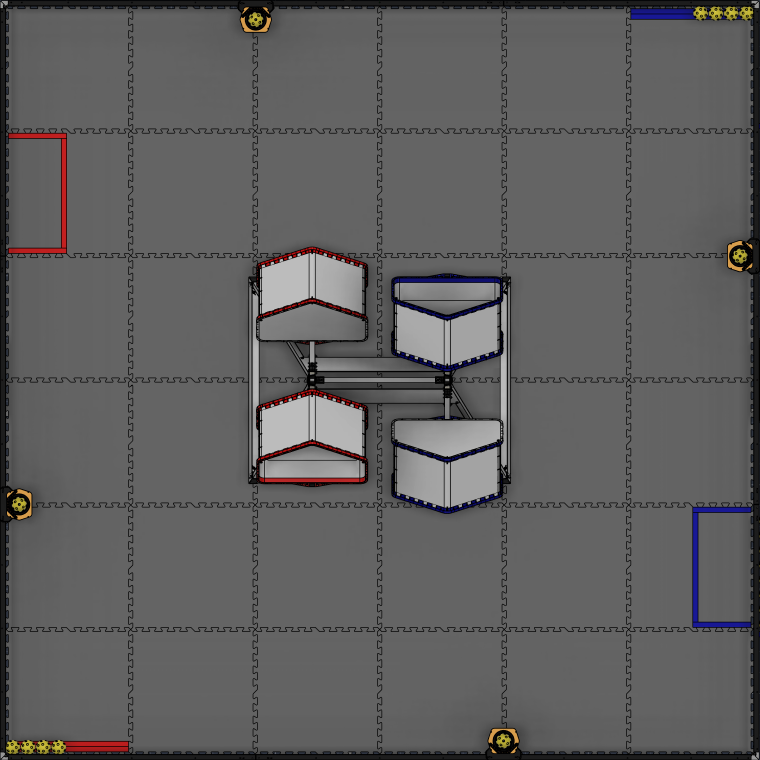
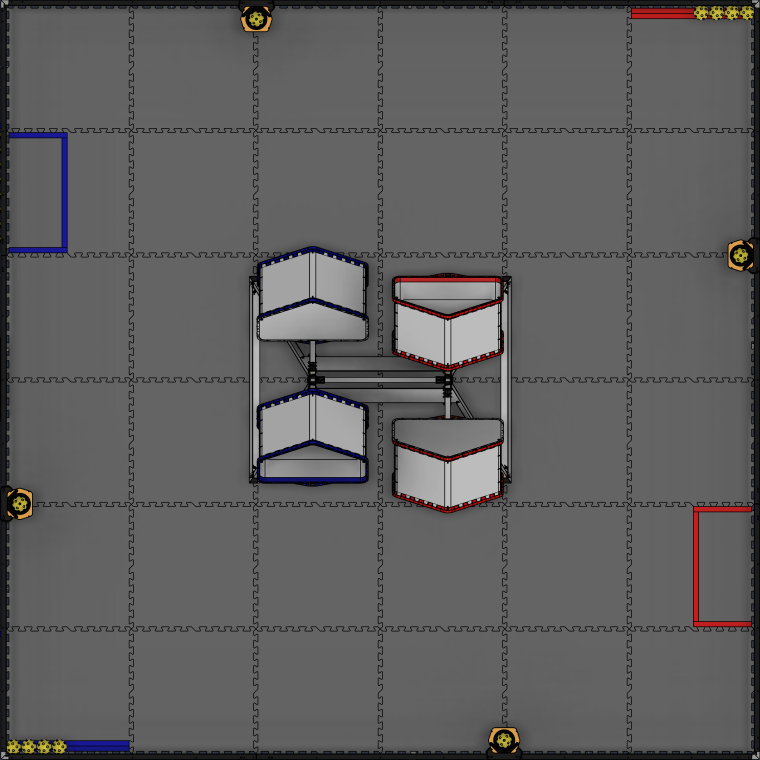
the latest

diff --git a/TeamCode/src/main/java/org/firstinspires/ftc/teamcode/systems/Odometry.java b/TeamCode/src/main/java/org/firstinspires/ftc/teamcode/systems/Odometry.java
@@ -31,9 +31,6 @@ public class Odometry {
             public static double perpOffset = -146.05; // offset of perp pod from center
         }
     }
-
-    Pose2D position;
-
     private double lastL, lastR, lastP;
     public Odometry(Robot robot) {
         // Define the deadwheels
@@ -44,11 +41,9 @@ public class Odometry {
         lastL = (Constants.Directions.leftDeadWheelDirection * leftDeadWheel.getCurrentPosition());
         lastR = (Constants.Directions.rightDeadWheelDirection * rightDeadWheel.getCurrentPosition());
         lastP = (Constants.Directions.perpDeadWheelDirection * perpDeadWheel.getCurrentPosition());
-        // get position from robot
-        position = robot.start;
     }
 
-    public Pose2D position() {
+    public Pose2D position(Pose2D pos) {
         double l = (Constants.Directions.leftDeadWheelDirection * leftDeadWheel.getCurrentPosition());
         double r = (Constants.Directions.rightDeadWheelDirection * rightDeadWheel.getCurrentPosition());
         double p = (Constants.Directions.perpDeadWheelDirection * perpDeadWheel.getCurrentPosition());
@@ -72,11 +67,11 @@ public class Odometry {
             dy = c * dF + s * dS;
         }
 
-        double changeInX = dx * Math.cos(position.getHeading(AngleUnit.RADIANS)) - dy * Math.sin(position.getHeading(AngleUnit.RADIANS));
-        double changeInY = dx * Math.sin(position.getHeading(AngleUnit.RADIANS)) + dy * Math.cos(position.getHeading(AngleUnit.RADIANS));
+        double changeInX = dx * Math.cos(pos.getHeading(AngleUnit.RADIANS)) - dy * Math.sin(pos.getHeading(AngleUnit.RADIANS));
+        double changeInY = dx * Math.sin(pos.getHeading(AngleUnit.RADIANS)) + dy * Math.cos(pos.getHeading(AngleUnit.RADIANS));
         double changeInHeading = dTheta;
 
-        position = new Pose2D(DistanceUnit.MM, position.getX(DistanceUnit.MM) + changeInX, position.getY(DistanceUnit.MM) + changeInY, AngleUnit.RADIANS, position.getHeading(AngleUnit.RADIANS) + changeInHeading);
+        Pose2D position = new Pose2D(DistanceUnit.MM, pos.getX(DistanceUnit.MM) + changeInX, pos.getY(DistanceUnit.MM) + changeInY, AngleUnit.RADIANS, pos.getHeading(AngleUnit.RADIANS) + changeInHeading);
 
         return (position);
 
@@ -86,7 +81,7 @@ public class Odometry {
         return new Pose2D(DistanceUnit.MM, 0, 0, AngleUnit.RADIANS, 0);
     }
 
-    public Pose2D resetHeading() {
+    public Pose2D resetHeading(Pose2D position) {
         return new Pose2D(DistanceUnit.MM, position.getX(DistanceUnit.MM), position.getY(DistanceUnit.MM), AngleUnit.RADIANS, 0);
     }
 }

diff --git a/TeamCode/src/main/java/org/firstinspires/ftc/teamcode/systems/Drive.java b/TeamCode/src/main/java/org/firstinspires/ftc/teamcode/systems/Drive.java
@@ -82,8 +82,8 @@ public class Drive {
         double errorX = targetX - x;
         double errorY = targetY - y;
 
-        boolean thereX = (errorX > -1)&&(errorX < 1);
-        boolean thereY = (errorY > -1)&&(errorY < 1);
+        boolean thereX = (errorX > -3)&&(errorX < 3);
+        boolean thereY = (errorY > -3)&&(errorY < 3);
         boolean there = thereX && thereY;
 
         double powerX = 0;
@@ -92,29 +92,28 @@ public class Drive {
         if (!there) {
             if (!thereX) {
                 if (errorX < 0) {
-                    powerX = 1;
+                    powerX = 1 * Math.abs(errorX) * (1 / Math.max(Math.abs(errorX), Math.abs(errorY)));
                 }
                 if (errorX > 0) {
-                    powerX = -1;
+                    powerX = -1 * Math.abs(errorX) * (1 / Math.max(Math.abs(errorX), Math.abs(errorY)));
                 }
             }
             if (!thereY) {
                 if (errorY < 0) {
-                    powerY = -1;
+                    powerY = 1 * Math.abs(errorY) * (1 / Math.max(Math.abs(errorX), Math.abs(errorY)));
                 }
                 if (errorY > 0) {
-                    powerY = 1;
+                    powerY = -1 * Math.abs(errorY) * (1 / Math.max(Math.abs(errorX), Math.abs(errorY)));
                 }
             }
         }
 
         // drive
-        DriveCommand command = new DriveCommand(powerX, powerY, 0.0, 1.0);
+        DriveCommand command = new DriveCommand(powerX, powerY, 0.0, 0.5);
         fieldCentric(command, current);
 
         return there;
     }
-
 
     /**
      * Stops all motors

diff --git a/MeepMeep/src/main/java/com/example/meepmeeptesting/MeepMeep.java b/MeepMeep/src/main/java/com/example/meepmeeptesting/MeepMeep.java
@@ -18,17 +18,17 @@ public class MeepMeep {
 
         RoadRunnerBotEntity bot = new DefaultBotBuilder(meepMeep)
                 .setConstraints(
-                        60,
-                        60,
+                        120,
+                        120,
                         Math.toRadians(180),
                         Math.toRadians(180),
                         15
                 )
                 .build();
 
-        bot.runAction(bot.getDrive().actionBuilder(new Pose2d(23-9, 70-9, Math.toRadians(-90)))
-                .strafeToConstantHeading(new Vector2d(40, 38))
-                .strafeToConstantHeading(new Vector2d(56, -32))
+        bot.runAction(bot.getDrive().actionBuilder(new Pose2d(-23+9, -70+9, Math.toRadians(-90)))
+                .strafeToConstantHeading(new Vector2d(-40, -38))
+                .strafeToConstantHeading(new Vector2d(-56, 32))
                 .build()
         );
 

diff --git a/TeamCode/src/main/java/org/firstinspires/ftc/teamcode/control/ControllerInput.java b/TeamCode/src/main/java/org/firstinspires/ftc/teamcode/control/ControllerInput.java
@@ -49,9 +49,8 @@ public class ControllerInput {
         double twist = -drivepad.right_stick_x * speed;
 
         // Create DriveCommand to store these drive values
-        DriveCommand command = new DriveCommand(forward, strafe, twist, speed);
-        // Give back the list of drive values
-        return (command);
+        // Give back the drive command
+        return (new DriveCommand(forward, strafe, twist, speed));
     }
 
     // intake input
@@ -66,11 +65,6 @@ public class ControllerInput {
         return (new IntakeCommand(intakepad.left_stick_y));
     }
 
-    /**
-     * @param intakepad the gamepad that handles idle intaking
-     * @return the absolute value of the left stick y. Useful for keeping balls in and taking them in efficiently
-     * @author Brantley
-     */
 
     public boolean getShooter(Gamepad shooterpad) {
         return (shooterpad.left_trigger_pressed);

diff --git a/TeamCode/src/main/java/org/firstinspires/ftc/teamcode/opmode/autonomous/programs/ShootBot.java b/TeamCode/src/main/java/org/firstinspires/ftc/teamcode/opmode/autonomous/programs/ShootBot.java
@@ -37,8 +37,8 @@ public class ShootBot extends AutonomousEx {
     public static class Constants {
         @Config("Shoot Autonomous - Position Constants")
         public static class Position {
-            public static double x = 40;
-            public static double y = 38;
+            public static double x = -40;
+            public static double y = -38;
         }
 
         @Config("Shoot Autonomous - Shoot Constants")
@@ -50,8 +50,8 @@ public class ShootBot extends AutonomousEx {
 
         @Config("Shoot Autonomous - Park Constants")
         public static class Park {
-            public static double x = 56;
-            public static double y = -32;
+            public static double x = -56;
+            public static double y = 32;
         }
     }
 

diff --git a/TeamCode/src/main/java/org/firstinspires/ftc/teamcode/opmode/OpModeEx.java b/TeamCode/src/main/java/org/firstinspires/ftc/teamcode/opmode/OpModeEx.java
@@ -39,6 +39,8 @@ public class OpModeEx extends OpMode {
         robot = new Robot(hardwareMap, setStart());
         input = new ControllerInput(gamepad1, gamepad2);
         output = new ControllerOutput(gamepad1, gamepad2);
+        // define position
+        position = robot.odometry.position(setStart());
     }
 
     @Override
@@ -54,7 +56,7 @@ public class OpModeEx extends OpMode {
     @Override
     public void loop() {
         // Define position
-        position = robot.odometry.position();
+        position = robot.odometry.position(position);
         // Call dashboard method
         dashboard();
     }

diff --git a/TeamCode/src/main/java/org/firstinspires/ftc/teamcode/opmode/TestOpMode.java b/TeamCode/src/main/java/org/firstinspires/ftc/teamcode/opmode/TestOpMode.java
@@ -23,7 +23,7 @@ public class TestOpMode extends OpModeEx {
         // Let users know as soon as the robot starts!
         telemetry.addLine("Started!");
         telemetry.update();
-        // Make your intentions clear to the drive coach
+        // Make your intentions clear to the driver
         telemetry.addLine("Are you ready to rumble?");
         telemetry.update();
         // Now rumble the gamepads

diff --git a/TeamCode/src/main/java/org/firstinspires/ftc/teamcode/opmode/teleop/programs/GameBot.java b/TeamCode/src/main/java/org/firstinspires/ftc/teamcode/opmode/teleop/programs/GameBot.java
@@ -55,7 +55,7 @@ public class GameBot extends TeleOpEx {
 
         // odometry code
         if (input.getResetPosition(gamepad1)) {
-            robot.odometry.resetHeading();
+            position = robot.odometry.resetHeading(position);
         }
     }
 
